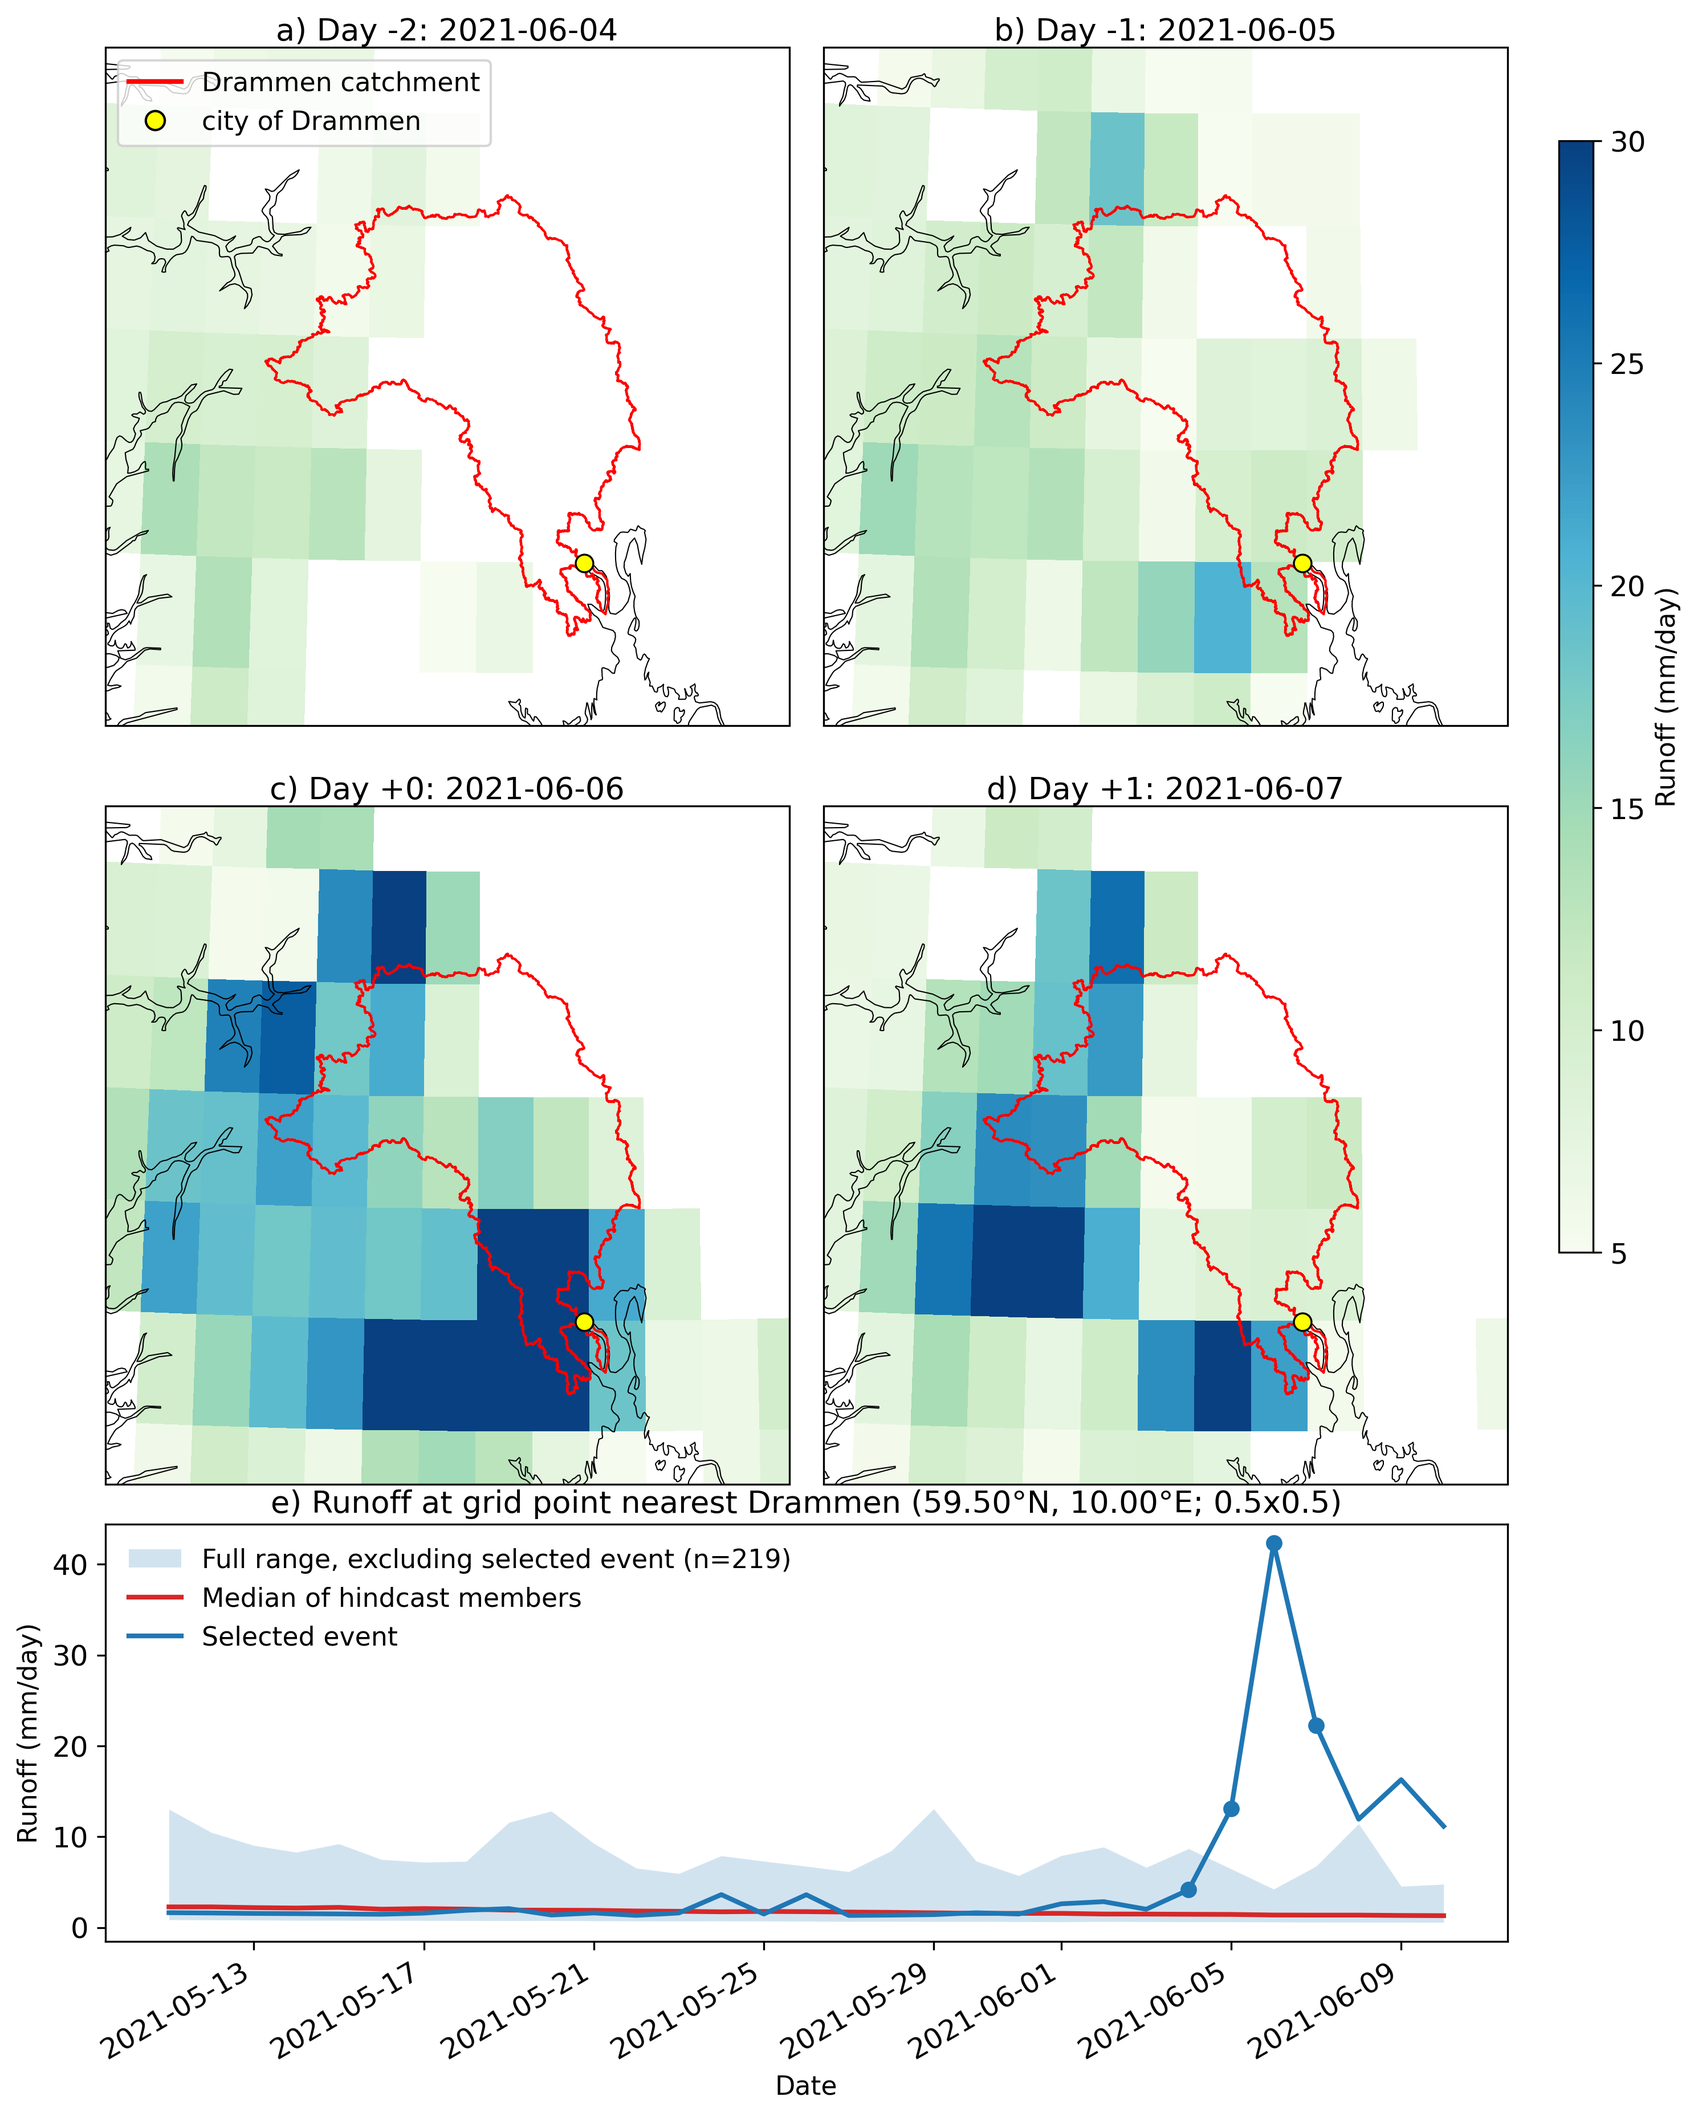
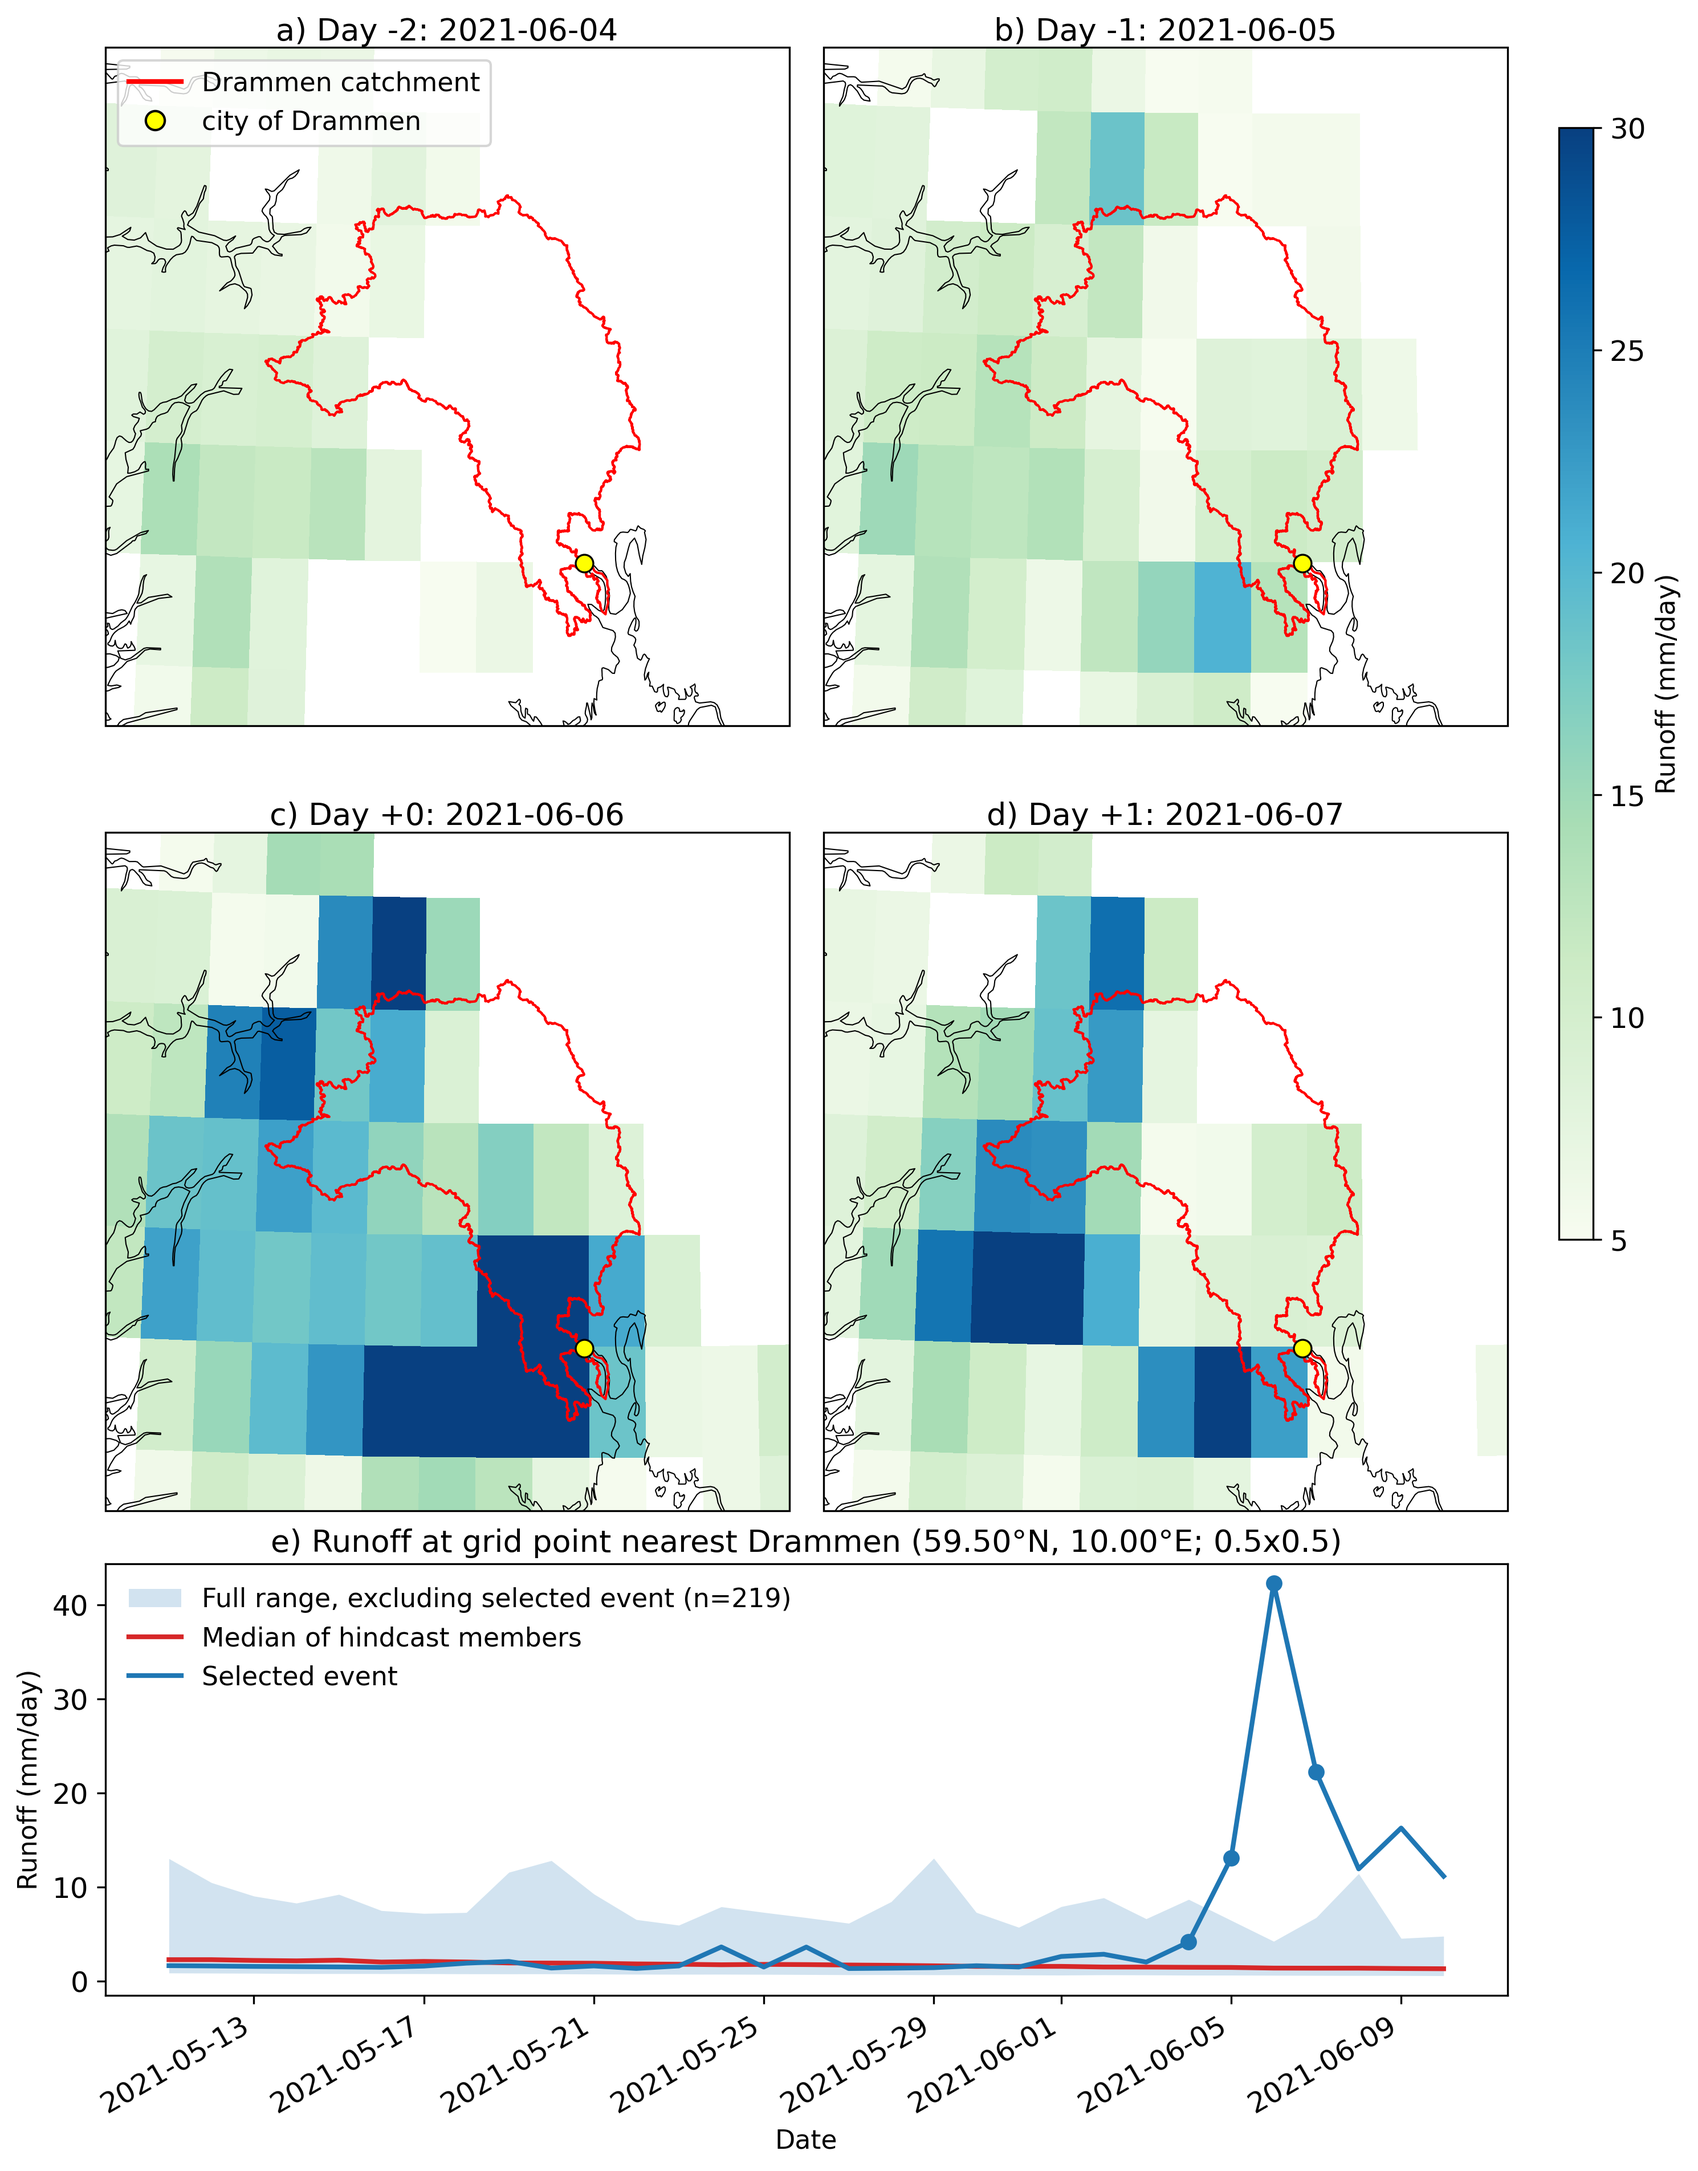
update

diff --git a/code/plot/paper_figs/temp4.py b/code/plot/paper_figs/temp4.py
@@ -863,7 +863,7 @@ def finalize_figure(
     fig.subplots_adjust(
         left=0.08,
         right=0.90,
-        bottom=0.08,
+        bottom=0.05,
         top=0.95,
     )
 
